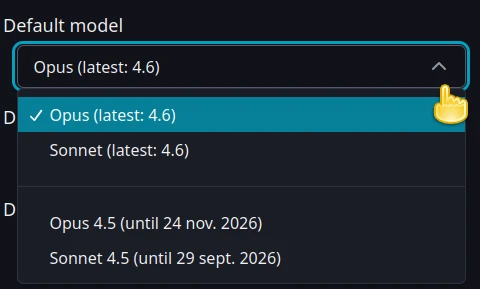
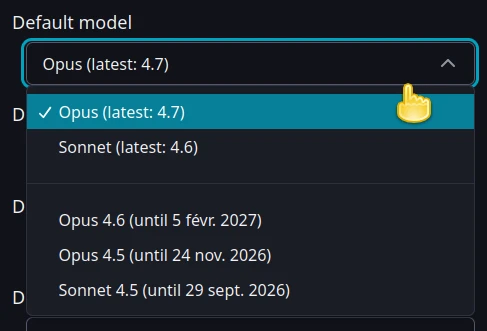
feat: support Opus 4.7 with new xHigh effort level
Opus 4.7 is the first model to expose a "xhigh" effort tier, so a new
supports_effort_xhigh capability flag is added to the model registry and
plumbed end-to-end like supports_1m: serialized to the frontend, enforced
on synced-settings changes, model retirement, and cron restart. UI gates
the xHigh option behind that flag in the per-session and default effort
selectors as well as the command palette. Capability helpers now resolve
unknown/missing models via the current default model instead of returning
arbitrary hardcoded values.

diff --git a/frontend/src/components/MessageInput.vue b/frontend/src/components/MessageInput.vue
@@ -3,7 +3,7 @@
 import { ref, computed, watch, nextTick, useId } from 'vue'
 import { useRouter, useRoute } from 'vue-router'
 import { useDataStore } from '../stores/data'
-import { useSettingsStore, classifyClaudeSettingsChanges, getModelRegistry, modelSupports1m, getRetiredModelUpgrade } from '../stores/settings'
+import { useSettingsStore, classifyClaudeSettingsChanges, getModelRegistry, modelSupports1m, modelSupportsEffortXhigh, getRetiredModelUpgrade } from '../stores/settings'
 import { sendWsMessage, notifyUserDraftUpdated } from '../composables/useWebSocket'
 import { isSupportedMimeType, MAX_FILE_SIZE, SUPPORTED_IMAGE_TYPES, draftMediaToMediaItem } from '../utils/fileUtils'
 import { toast } from '../composables/useToast'
@@ -286,6 +286,11 @@ const isContextMaxForcedByModel = computed(() => {
     return !modelSupports1m(effectiveModel)
 })
 
+const isEffortXhighAvailable = computed(() => {
+    const effectiveModel = selectedModel.value ?? settingsStore.getDefaultModel
+    return modelSupportsEffortXhigh(effectiveModel)
+})
+
 // Watch: auto-reset to 200K when model doesn't support 1M
 watch(isContextMaxForcedByModel, (forced) => {
     if (forced) {
@@ -294,6 +299,16 @@ watch(isContextMaxForcedByModel, (forced) => {
             selectedContextMax.value = CONTEXT_MAX.DEFAULT
             activeContextMax.value = CONTEXT_MAX.DEFAULT
         }
+    }
+})
+
+// Watch: demote xHigh effort to High when new model doesn't support it
+watch(isEffortXhighAvailable, (available) => {
+    if (available) return
+    const effectiveEffort = selectedEffort.value ?? settingsStore.getDefaultEffort
+    if (effectiveEffort === EFFORT.X_HIGH) {
+        selectedEffort.value = EFFORT.HIGH
+        activeEffort.value = EFFORT.HIGH
     }
 })
 
@@ -1599,8 +1614,13 @@ defineExpose({ insertTextAtCursor })
                             >
                                 <wa-option :value="DEFAULT_SENTINEL">Default: {{ defaultEffortLabel }}</wa-option>
                                 <small class="select-group-label">Force to:</small>
-                                <wa-option v-for="option in effortOptions" :key="option.value" :value="option.value">
-                                    {{ option.label }}
+                                <wa-option
+                                    v-for="option in effortOptions"
+                                    :key="option.value"
+                                    :value="option.value"
+                                    :disabled="option.value === EFFORT.X_HIGH && !isEffortXhighAvailable"
+                                >
+                                    {{ option.label }}{{ option.value === EFFORT.X_HIGH && !isEffortXhighAvailable ? ' (not available)' : '' }}
                                 </wa-option>
                             </wa-select>
                             <a v-if="selectedEffort !== null" class="reset-setting-link" @click.prevent="selectedEffort = null">Reset to default: {{ defaultEffortLabel }}</a>

diff --git a/frontend/src/components/SettingsPopover.vue b/frontend/src/components/SettingsPopover.vue
@@ -2,7 +2,7 @@
 // SettingsPopover.vue - Settings button with popover panel
 import { computed, nextTick, onBeforeUnmount, ref, useId, watch } from 'vue'
 import { useRouter } from 'vue-router'
-import { useSettingsStore, SETTINGS_SCHEMA, getModelRegistry, modelSupports1m } from '../stores/settings'
+import { useSettingsStore, SETTINGS_SCHEMA, getModelRegistry, modelSupports1m, modelSupportsEffortXhigh } from '../stores/settings'
 import { useDataStore } from '../stores/data'
 import { useAuthStore } from '../stores/auth'
 import { DISPLAY_MODE, COLOR_SCHEME, SESSION_TIME_FORMAT, DEFAULT_MAX_CACHED_SESSIONS, PERMISSION_MODE, PERMISSION_MODE_LABELS, PERMISSION_MODE_DESCRIPTIONS, getModelLabel, EFFORT, EFFORT_LABELS, THINKING, THINKING_LABELS, CLAUDE_IN_CHROME, CLAUDE_IN_CHROME_LABELS, CONTEXT_MAX, CONTEXT_MAX_LABELS, WA_THEME, WA_THEME_LABELS, WA_BRAND, WA_BRAND_LABELS } from '../constants'
@@ -297,6 +297,7 @@ function formatRetirementDate(isoDate) {
 }
 
 const defaultModelSupports1m = computed(() => modelSupports1m(defaultModel.value))
+const defaultModelSupportsEffortXhigh = computed(() => modelSupportsEffortXhigh(defaultModel.value))
 
 /**
  * Handle display mode change.
@@ -460,6 +461,9 @@ function onDefaultModelChange(event) {
     store.setDefaultModel(newModel)
     if (!modelSupports1m(newModel) && store.getDefaultContextMax === CONTEXT_MAX.EXTENDED) {
         store.setDefaultContextMax(CONTEXT_MAX.DEFAULT)
+    }
+    if (!modelSupportsEffortXhigh(newModel) && store.defaultEffort === EFFORT.X_HIGH) {
+        store.setDefaultEffort(EFFORT.HIGH)
     }
 }
 
@@ -756,8 +760,9 @@ function onChangelogClose() {
                                 v-for="option in effortOptions"
                                 :key="option.value"
                                 :value="option.value"
+                                :disabled="option.value === EFFORT.X_HIGH && !defaultModelSupportsEffortXhigh"
                             >
-                                {{ option.label }}
+                                {{ option.label }}{{ option.value === EFFORT.X_HIGH && !defaultModelSupportsEffortXhigh ? ' (not available)' : '' }}
                             </wa-option>
                         </wa-select>
                     </div>

diff --git a/frontend/src/stores/settings.js b/frontend/src/stores/settings.js
@@ -192,10 +192,33 @@ export function getModelRegistry() {
     return _modelRegistry
 }
 
+/**
+ * Look up a registry entry for a given selected model, falling back to the
+ * current default model from the settings store when the argument is
+ * null/undefined or absent from the registry.
+ *
+ * Returns the registry entry, or undefined when even the default is unknown
+ * (e.g. during boot before the registry has been populated).
+ */
+function resolveRegistryEntry(selectedModel) {
+    let entry = selectedModel ? _modelRegistry.find(e => e.selectedModel === selectedModel) : undefined
+    if (!entry) {
+        const defaultModel = useSettingsStore().defaultModel
+        if (defaultModel) {
+            entry = _modelRegistry.find(e => e.selectedModel === defaultModel)
+        }
+    }
+    return entry
+}
+
 export function modelSupports1m(selectedModel) {
-    if (!selectedModel) return true  // null = default = latest = supports 1M
-    const entry = _modelRegistry.find(e => e.selectedModel === selectedModel)
-    return entry ? entry.supports1m : true
+    const entry = resolveRegistryEntry(selectedModel)
+    return entry ? entry.supports1m : false  // last-resort default: conservative
+}
+
+export function modelSupportsEffortXhigh(selectedModel) {
+    const entry = resolveRegistryEntry(selectedModel)
+    return entry ? entry.supportsEffortXhigh : false  // last-resort default: conservative
 }
 
 /**

diff --git a/frontend/src/commands/staticCommands.js b/frontend/src/commands/staticCommands.js
@@ -8,7 +8,7 @@
  */
 
 import { useCommandRegistry } from '../composables/useCommandRegistry'
-import { useSettingsStore, getModelRegistry } from '../stores/settings'
+import { useSettingsStore, getModelRegistry, modelSupportsEffortXhigh } from '../stores/settings'
 import { useDataStore } from '../stores/data'
 import { useWorkspacesStore } from '../stores/workspaces'
 import { useRoute } from 'vue-router'
@@ -467,12 +467,14 @@ export function initStaticCommands(router) {
             label: 'Change Default Effort\u2026',
             icon: 'gauge',
             category: 'claude',
-            items: () => Object.values(EFFORT).map(value => ({
-                id: value,
-                label: EFFORT_LABELS[value],
-                action: () => settings.setDefaultEffort(value),
-                active: settings.defaultEffort === value,
-            })),
+            items: () => Object.values(EFFORT)
+                .filter(value => value !== EFFORT.X_HIGH || modelSupportsEffortXhigh(settings.defaultModel))
+                .map(value => ({
+                    id: value,
+                    label: EFFORT_LABELS[value],
+                    action: () => settings.setDefaultEffort(value),
+                    active: settings.defaultEffort === value,
+                })),
         },
         {
             id: 'claude.permission',

diff --git a/frontend/src/constants.js b/frontend/src/constants.js
@@ -199,6 +199,7 @@ export function getModelLabel(selectedModel) {
  * Controls the depth of thinking for Claude's responses.
  */
 export const EFFORT = {
+    X_HIGH: 'xhigh',
     HIGH: 'high',
     MEDIUM: 'medium',
     LOW: 'low',
@@ -211,6 +212,7 @@ export const EFFORT_LABELS = {
     [EFFORT.LOW]: 'Low',
     [EFFORT.MEDIUM]: 'Medium',
     [EFFORT.HIGH]: 'High',
+    [EFFORT.X_HIGH]: 'xHigh',
 }
 
 /**
@@ -220,6 +222,7 @@ export const EFFORT_DISPLAY_LABELS = {
     [EFFORT.LOW]: 'Low effort',
     [EFFORT.MEDIUM]: 'Medium effort',
     [EFFORT.HIGH]: 'High effort',
+    [EFFORT.X_HIGH]: 'xHigh effort',
 }
 
 /**

diff --git a/src/twicc/model_registry.py b/src/twicc/model_registry.py
@@ -29,13 +29,16 @@ class ModelVersion(NamedTuple):
     retirement_date: date | None  # Date after which this version is retired (None for latest)
     latest: bool  # True = current default for this family (unique per model)
     supports_1m: bool  # Whether extended 1M context is available
+    supports_effort_xhigh: bool  # Whether the "xhigh" effort level is available
 
 
+# deprecations: https://platform.claude.com/docs/en/about-claude/model-deprecations
 MODEL_VERSIONS: list[ModelVersion] = [
-    ModelVersion("opus", "4.6", "claude-opus-4-6", retirement_date=None, latest=True, supports_1m=True),
-    ModelVersion("opus", "4.5", "claude-opus-4-5-20251101", retirement_date=date(2026, 11, 24), latest=False, supports_1m=False),
-    ModelVersion("sonnet", "4.6", "claude-sonnet-4-6", retirement_date=None, latest=True, supports_1m=True),
-    ModelVersion("sonnet", "4.5", "claude-sonnet-4-5-20250929", retirement_date=date(2026, 9, 29), latest=False, supports_1m=False),
+    ModelVersion("opus", "4.7", "claude-opus-4-7", retirement_date=None, latest=True, supports_1m=True, supports_effort_xhigh=True),   # retire 2027-04-16, to set when sonnet 4.8 is released
+    ModelVersion("opus", "4.6", "claude-opus-4-6", retirement_date=date(2027, 2, 5), latest=False, supports_1m=True, supports_effort_xhigh=False),
+    ModelVersion("opus", "4.5", "claude-opus-4-5-20251101", retirement_date=date(2026, 11, 24), latest=False, supports_1m=False, supports_effort_xhigh=False),
+    ModelVersion("sonnet", "4.6", "claude-sonnet-4-6", retirement_date=None, latest=True, supports_1m=True, supports_effort_xhigh=False),   # retire 2027-02-17, to set when sonnet 4.7 is released
+    ModelVersion("sonnet", "4.5", "claude-sonnet-4-5-20250929", retirement_date=date(2026, 9, 29), latest=False, supports_1m=False, supports_effort_xhigh=False),
 ]
 
 
@@ -138,28 +141,66 @@ def get_all_selected_model_values() -> list[str]:
     return result
 
 
+def _resolve_to_default_model_version() -> ModelVersion | None:
+    """Return the ModelVersion for the current default model from synced settings.
+
+    Used by capability-check helpers as a defensive fallback when the caller
+    passes None or an unknown model string. Returns None if the default model
+    itself is missing or unknown (caller must then fall back to a hardcoded
+    default).
+    """
+    from twicc.synced_settings import SYNCED_SETTINGS_DEFAULTS, read_synced_settings
+    default_model = read_synced_settings().get("defaultModel") or SYNCED_SETTINGS_DEFAULTS.get("defaultModel")
+    if not default_model:
+        return None
+    return get_model_version(default_model)
+
+
 def selected_model_supports_1m(selected_model: str | None) -> bool:
     """Check if a selected_model value supports 1M context.
 
-    None means "use default" — caller should resolve to effective model first.
-    Unknown models are assumed to support 1M (backward compat).
+    None or unknown models fall back to the current default model from synced
+    settings. If the default is itself unknown, returns False (conservative).
     """
-    if not selected_model:
-        return True
-    mv = get_model_version(selected_model)
+    mv = get_model_version(selected_model) if selected_model else None
     if mv is None:
-        return True
+        mv = _resolve_to_default_model_version()
+    if mv is None:
+        return False
     return mv.supports_1m
 
 
 def enforce_1m_consistency(selected_model: str | None, context_max: int) -> int:
     """If the model doesn't support 1M, cap context_max to 200K.
-
     Returns the (possibly adjusted) context_max value.
     """
     if context_max == 1_000_000 and not selected_model_supports_1m(selected_model):
         return 200_000
     return context_max
+
+
+def selected_model_supports_effort_xhigh(selected_model: str | None) -> bool:
+    """Check if a selected_model value supports the "xhigh" effort level.
+
+    None or unknown models fall back to the current default model from synced
+    settings. If the default is itself unknown, returns False (conservative).
+    """
+    mv = get_model_version(selected_model) if selected_model else None
+    if mv is None:
+        mv = _resolve_to_default_model_version()
+    if mv is None:
+        return False
+    return mv.supports_effort_xhigh
+
+
+def enforce_effort_xhigh_consistency(selected_model: str | None, effort: str | None) -> str | None:
+    """If the model doesn't support "xhigh" effort, demote it to "high".
+
+    Returns the (possibly adjusted) effort value.
+    """
+    if effort == "xhigh" and not selected_model_supports_effort_xhigh(selected_model):
+        return "high"
+    return effort
 
 
 def serialize_model_registry() -> list[dict]:
@@ -179,6 +220,7 @@ def serialize_model_registry() -> list[dict]:
             "retirementDate": mv.retirement_date.isoformat() if mv.retirement_date else None,
             "latest": mv.latest,
             "supports1m": mv.supports_1m,
+            "supportsEffortXhigh": mv.supports_effort_xhigh,
         }
         if mv.latest:
             latest.append(entry)

diff --git a/src/twicc/model_retirement_task.py b/src/twicc/model_retirement_task.py
@@ -118,7 +118,7 @@ async def _check_and_retire() -> None:
     #   update the session DB row; _apply_pending_settings will pick it up
     #   at the next USER_TURN transition.
     from twicc.agent.manager import get_process_manager
-    from twicc.model_registry import selected_model_supports_1m
+    from twicc.model_registry import selected_model_supports_1m, selected_model_supports_effort_xhigh
 
     manager = get_process_manager()
     # NOTE: ProcessManager doesn't expose a public get_all_processes() method.
@@ -133,9 +133,12 @@ async def _check_and_retire() -> None:
             ctx = 200_000
         # Update session DB so _apply_pending_settings picks it up if in ASSISTANT_TURN
         from twicc.core.models import Session
+        session_updates: dict[str, object] = {"selected_model": new_model}
+        if process.effort == "xhigh" and not selected_model_supports_effort_xhigh(new_model):
+            session_updates["effort"] = "high"
         await asyncio.to_thread(
-            lambda sid=process.session_id, nm=new_model: (
-                Session.objects.filter(id=sid).update(selected_model=nm)
+            lambda sid=process.session_id, upd=session_updates: (
+                Session.objects.filter(id=sid).update(**upd)
             )
         )
         try:

diff --git a/src/twicc/asgi.py b/src/twicc/asgi.py
@@ -1243,11 +1243,13 @@ class UpdatesConsumer(AsyncJsonWebsocketConsumer):
 
                 # Enforce 1M consistency when defaultModel changes
                 if "defaultModel" in synced_settings:
-                    from twicc.model_registry import selected_model_supports_1m
+                    from twicc.model_registry import selected_model_supports_1m, selected_model_supports_effort_xhigh
                     from twicc.synced_settings import SYNCED_SETTINGS_DEFAULTS
                     new_model = existing.get("defaultModel", SYNCED_SETTINGS_DEFAULTS["defaultModel"])
                     if not selected_model_supports_1m(new_model) and existing.get("defaultContextMax", 200_000) == 1_000_000:
                         existing["defaultContextMax"] = 200_000
+                    if not selected_model_supports_effort_xhigh(new_model) and existing.get("defaultEffort") == "xhigh":
+                        existing["defaultEffort"] = "high"
 
                 existing["_version"] = current_version + 1
                 write_synced_settings(existing)

diff --git a/src/twicc/cron_restart.py b/src/twicc/cron_restart.py
@@ -73,9 +73,10 @@ def _collect_restart_data(session_id: str) -> dict | None:
         "context_max": session.context_max if session.context_max is not None else defaults.get("defaultContextMax", 200_000),
     }
 
-    # Enforce 1M consistency
-    from twicc.model_registry import enforce_1m_consistency
+    # Enforce model-capability consistency
+    from twicc.model_registry import enforce_1m_consistency, enforce_effort_xhigh_consistency
     data["context_max"] = enforce_1m_consistency(data["selected_model"], data["context_max"])
+    data["effort"] = enforce_effort_xhigh_consistency(data["selected_model"], data["effort"])
 
     return data
 

diff --git a/CHANGELOG.md b/CHANGELOG.md
@@ -8,6 +8,8 @@ The format is based on [Keep a Changelog](https://keepachangelog.com/en/1.1.0/),
 
 ### Added
 
+- Added support for Opus 4.7, and selecting older Claude model versions (Available: Opus 4.7, Opus 4.6, Opus 4.5, Sonnet.4.6, Sonnet 4.5)
+  - ![Claude model picker](frontend/public/whats-new/v1.5/claude-models-versions.webp)
 - Project, workspace, and all-projects home views now have their own Files, Git (projects only), and Terminal tabs
   - ![Workspace tabs](frontend/public/whats-new/v1.5/workspace-tabs.webp)
 - Real-time streaming of assistant text and thinking content during active sessions (avoid waiting undefined time before a visual response)
@@ -28,8 +30,6 @@ The format is based on [Keep a Changelog](https://keepachangelog.com/en/1.1.0/),
 - Right-click context menu in file browser for file operations (Files tab) and git operations (Git tab)
   - ![Right click on files tab](frontend/public/whats-new/v1.5/files-right-click.webp)
   - ![Right click on git tab](frontend/public/whats-new/v1.5/git-right-click.webp)
-- Added support for selecting older Claude model versions (Opus 4.5, Sonnet 4.5) with automatic upgrade on retirement
-  - ![Claude model picker](frontend/public/whats-new/v1.5/claude-models-versions.webp)
 - Granular URL routing: terminal index, file selection, and git commit are now encoded in the URL — browser Back/Forward, reload, bookmarks, and other links restore the expected screen
 - Session list items are now proper links — middle-click or right-click to open a session in a new browser tab
 - Pan/zoom on all image displays
